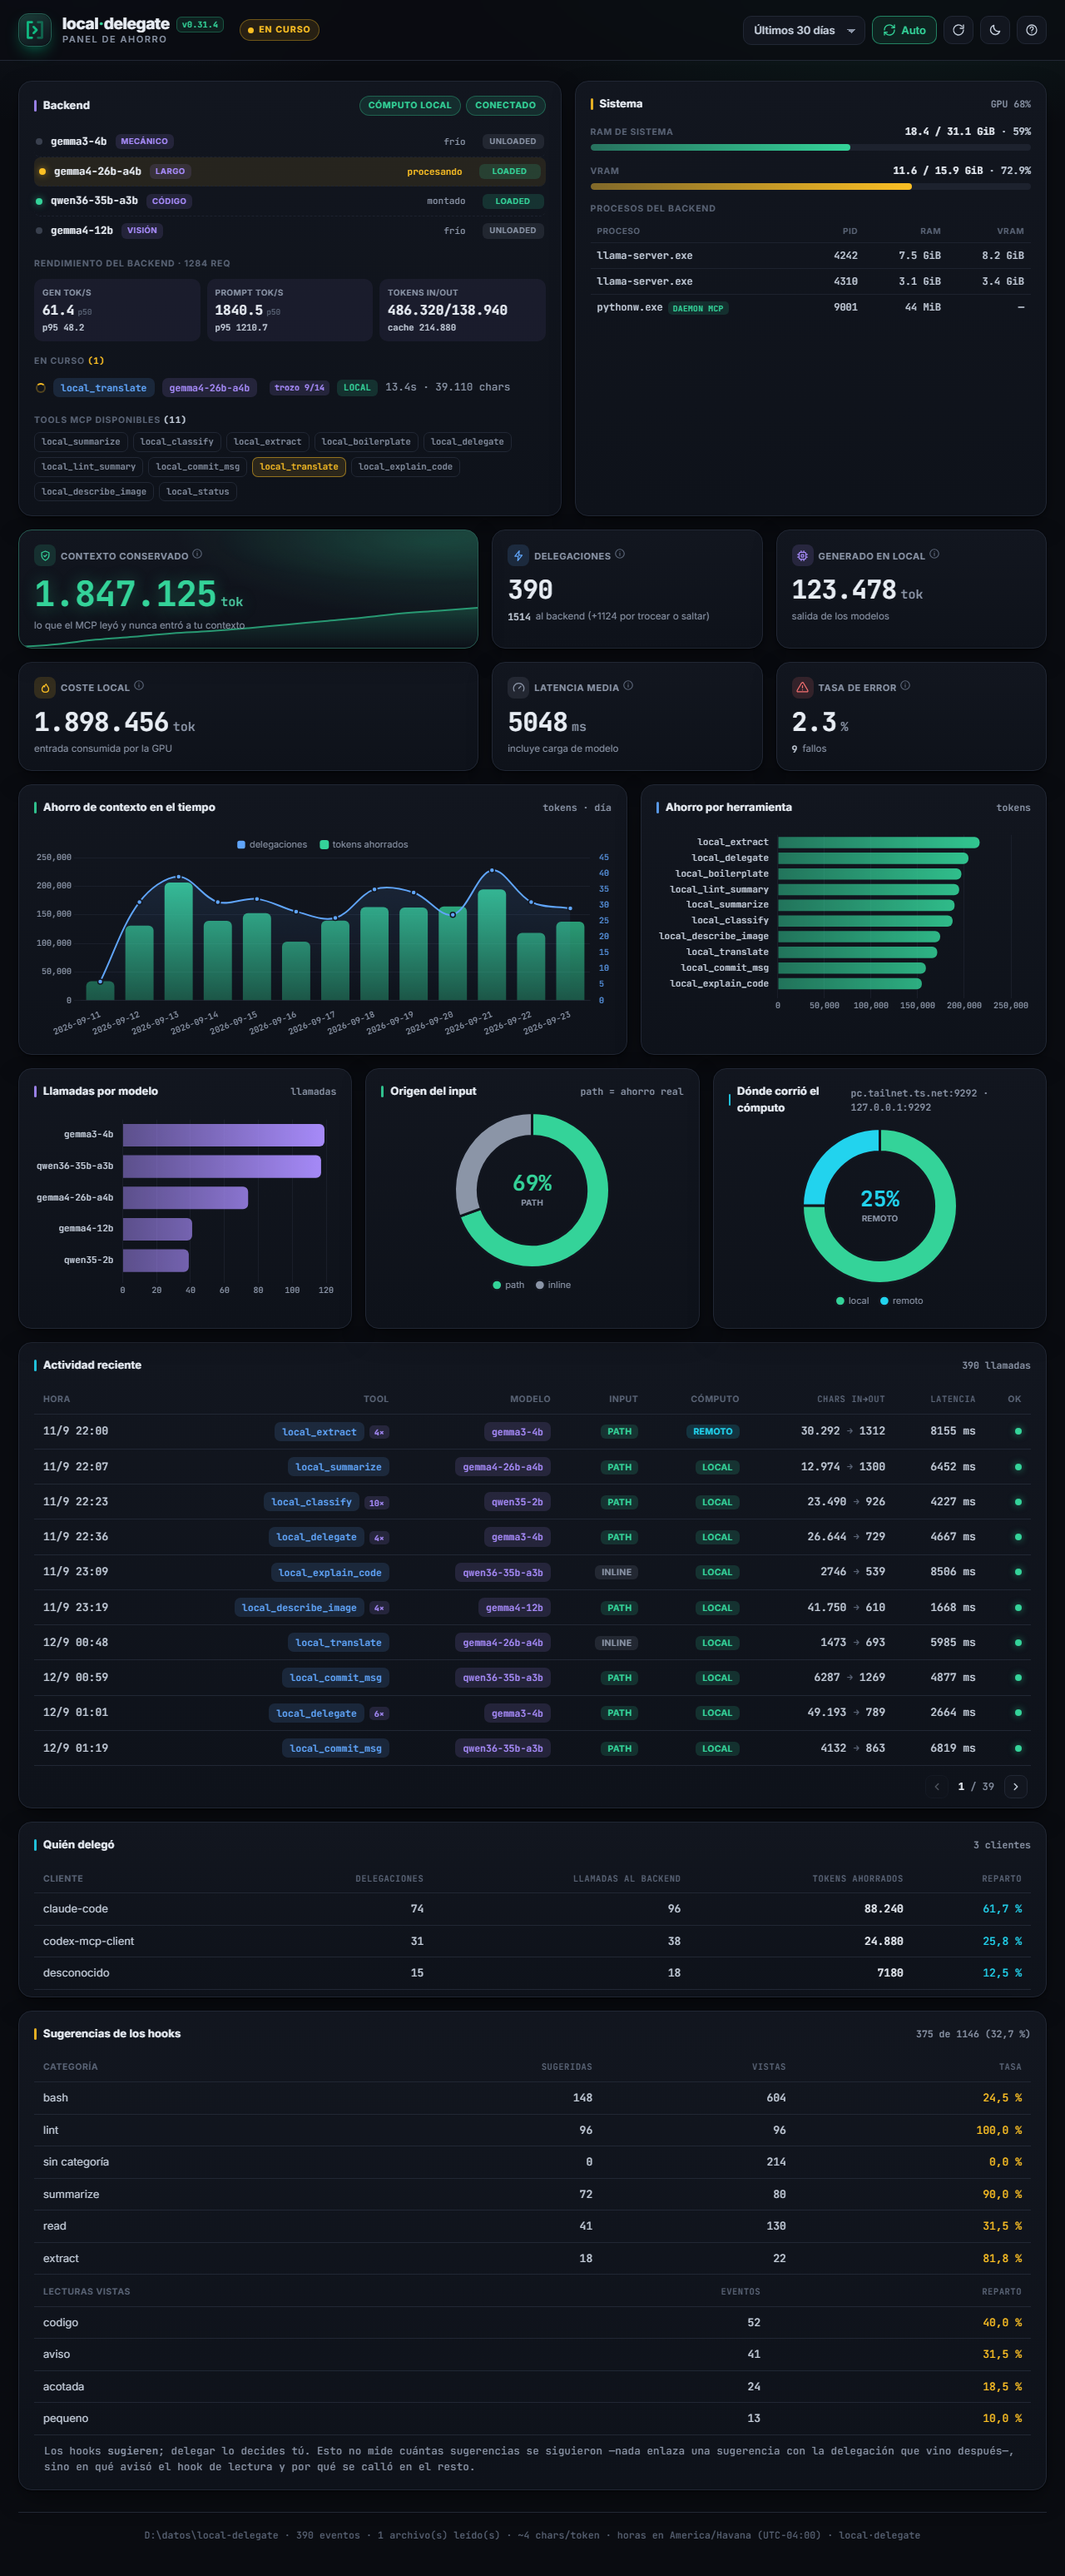
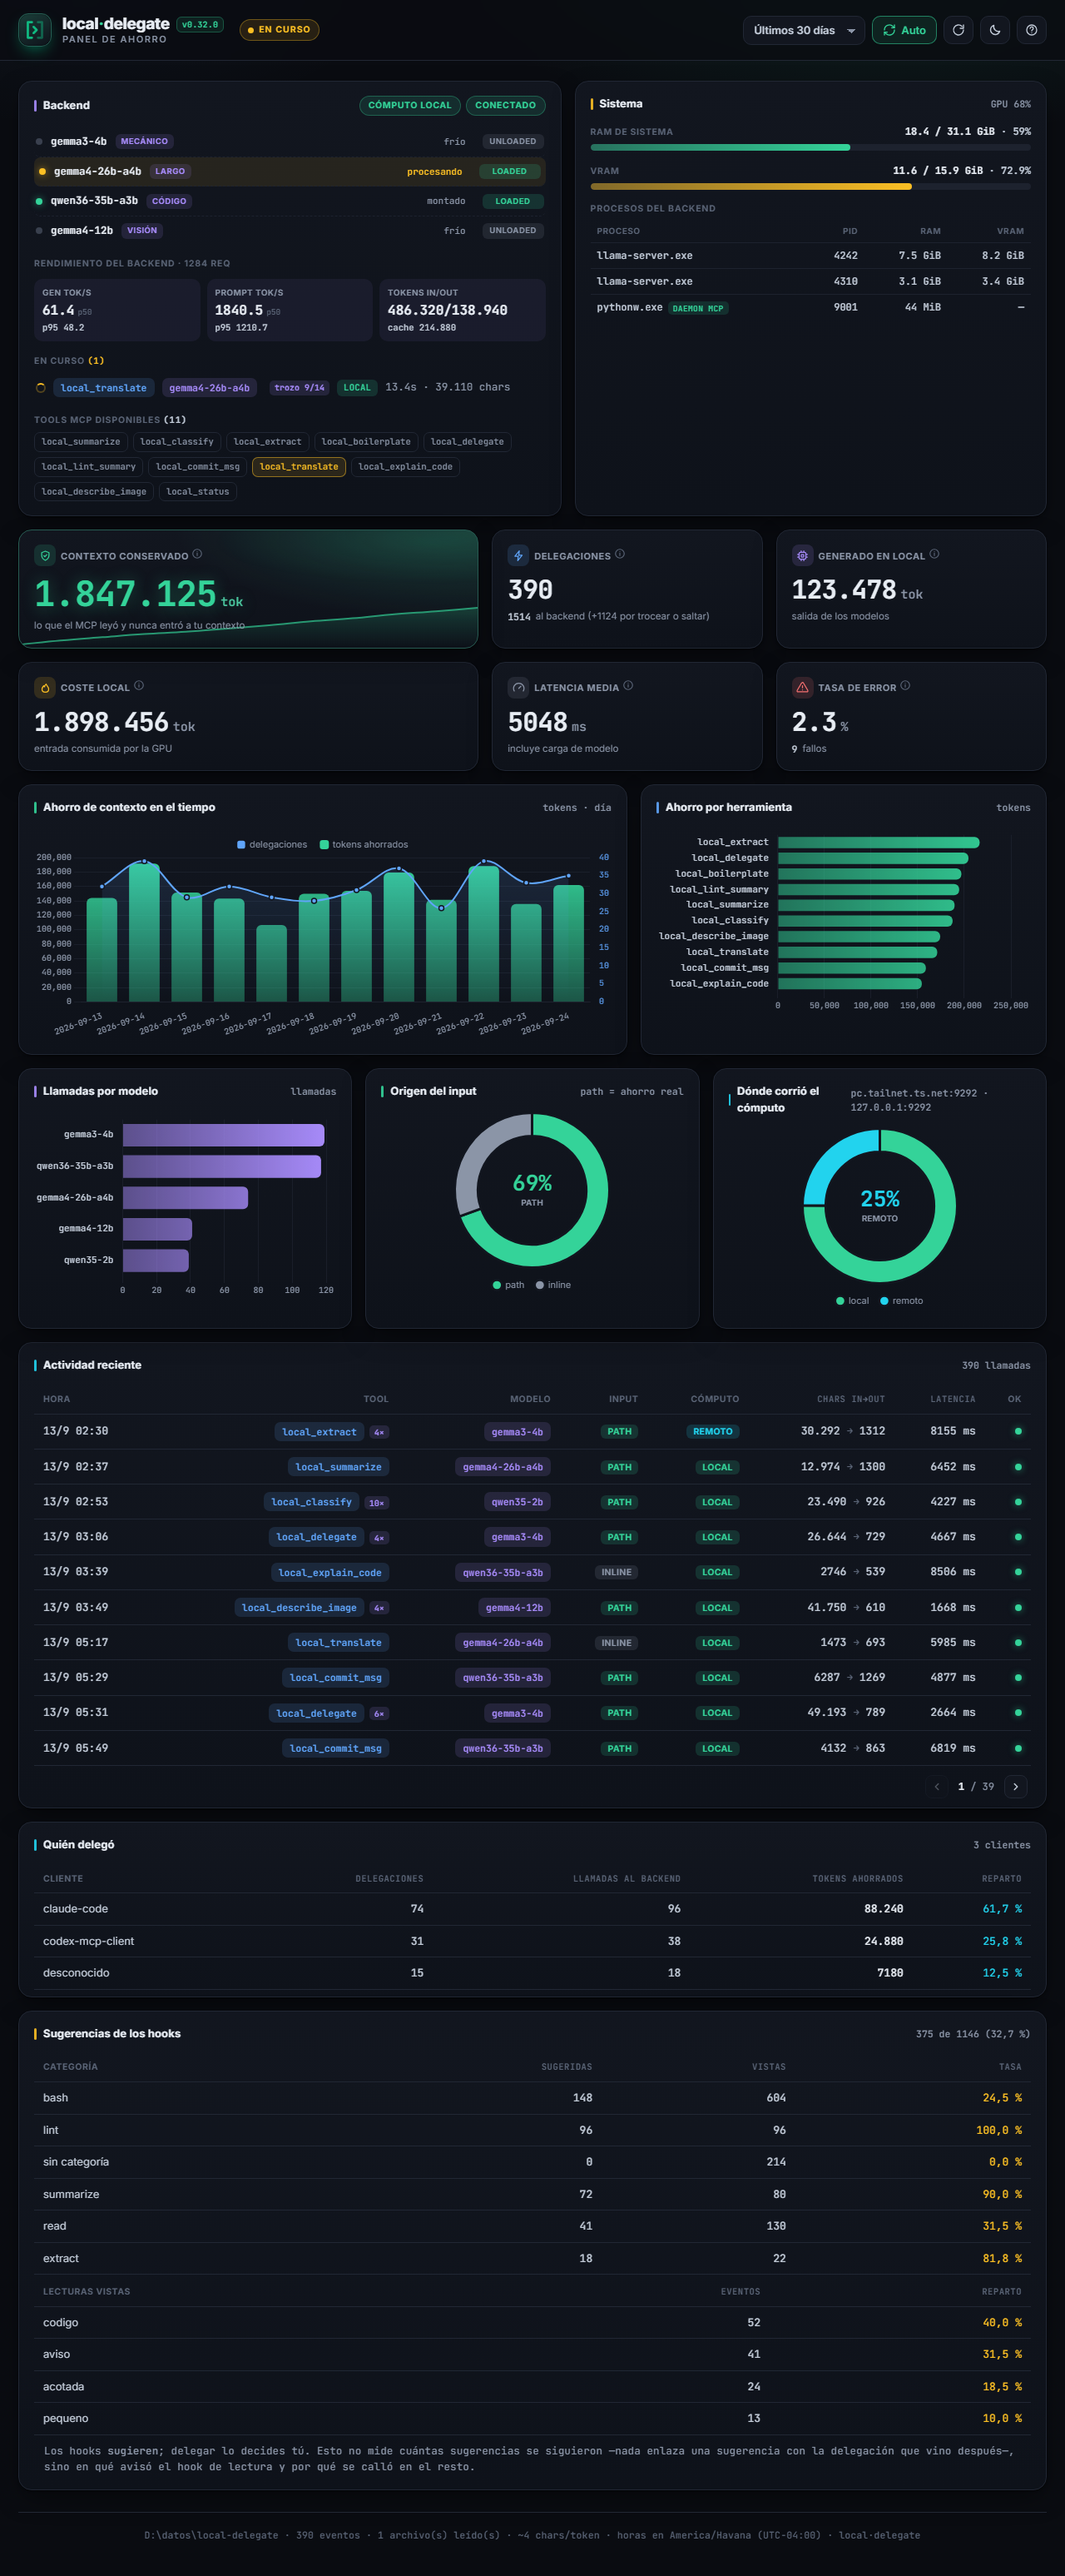
chore: release v0.32.0 (#222)

Changed region(s): [[0.0312, 0.3103, 0.5938, 0.4034]]

diff --git a/CHANGELOG.md b/CHANGELOG.md
@@ -6,6 +6,8 @@ y el proyecto usa [Versionado Semántico](https://semver.org/lang/es/).
 
 ## [Unreleased]
 
+## [0.32.0] - 2026-09-23
+
 ### Added
 - **`local_summarize(focus=...)`**: parámetro opcional para decir qué interesa del documento
   (p. ej. `"cifras de configuración"`); el resumen lo prioriza y conserva literales sus datos. Se
@@ -2234,7 +2236,8 @@ y el proyecto usa [Versionado Semántico](https://semver.org/lang/es/).
 - Empaquetado para PyPI (`local-delegate-mcp`) ejecutable con `uvx`; `server.json` para el
   registro oficial de MCP.
 
-[Unreleased]: https://github.com/ZahiriNatZuke/local-delegate/compare/v0.31.4...HEAD
+[Unreleased]: https://github.com/ZahiriNatZuke/local-delegate/compare/v0.32.0...HEAD
+[0.32.0]: https://github.com/ZahiriNatZuke/local-delegate/compare/v0.31.4...v0.32.0
 [0.31.4]: https://github.com/ZahiriNatZuke/local-delegate/compare/v0.31.3...v0.31.4
 [0.31.3]: https://github.com/ZahiriNatZuke/local-delegate/compare/v0.31.2...v0.31.3
 [0.31.2]: https://github.com/ZahiriNatZuke/local-delegate/compare/v0.31.1...v0.31.2
